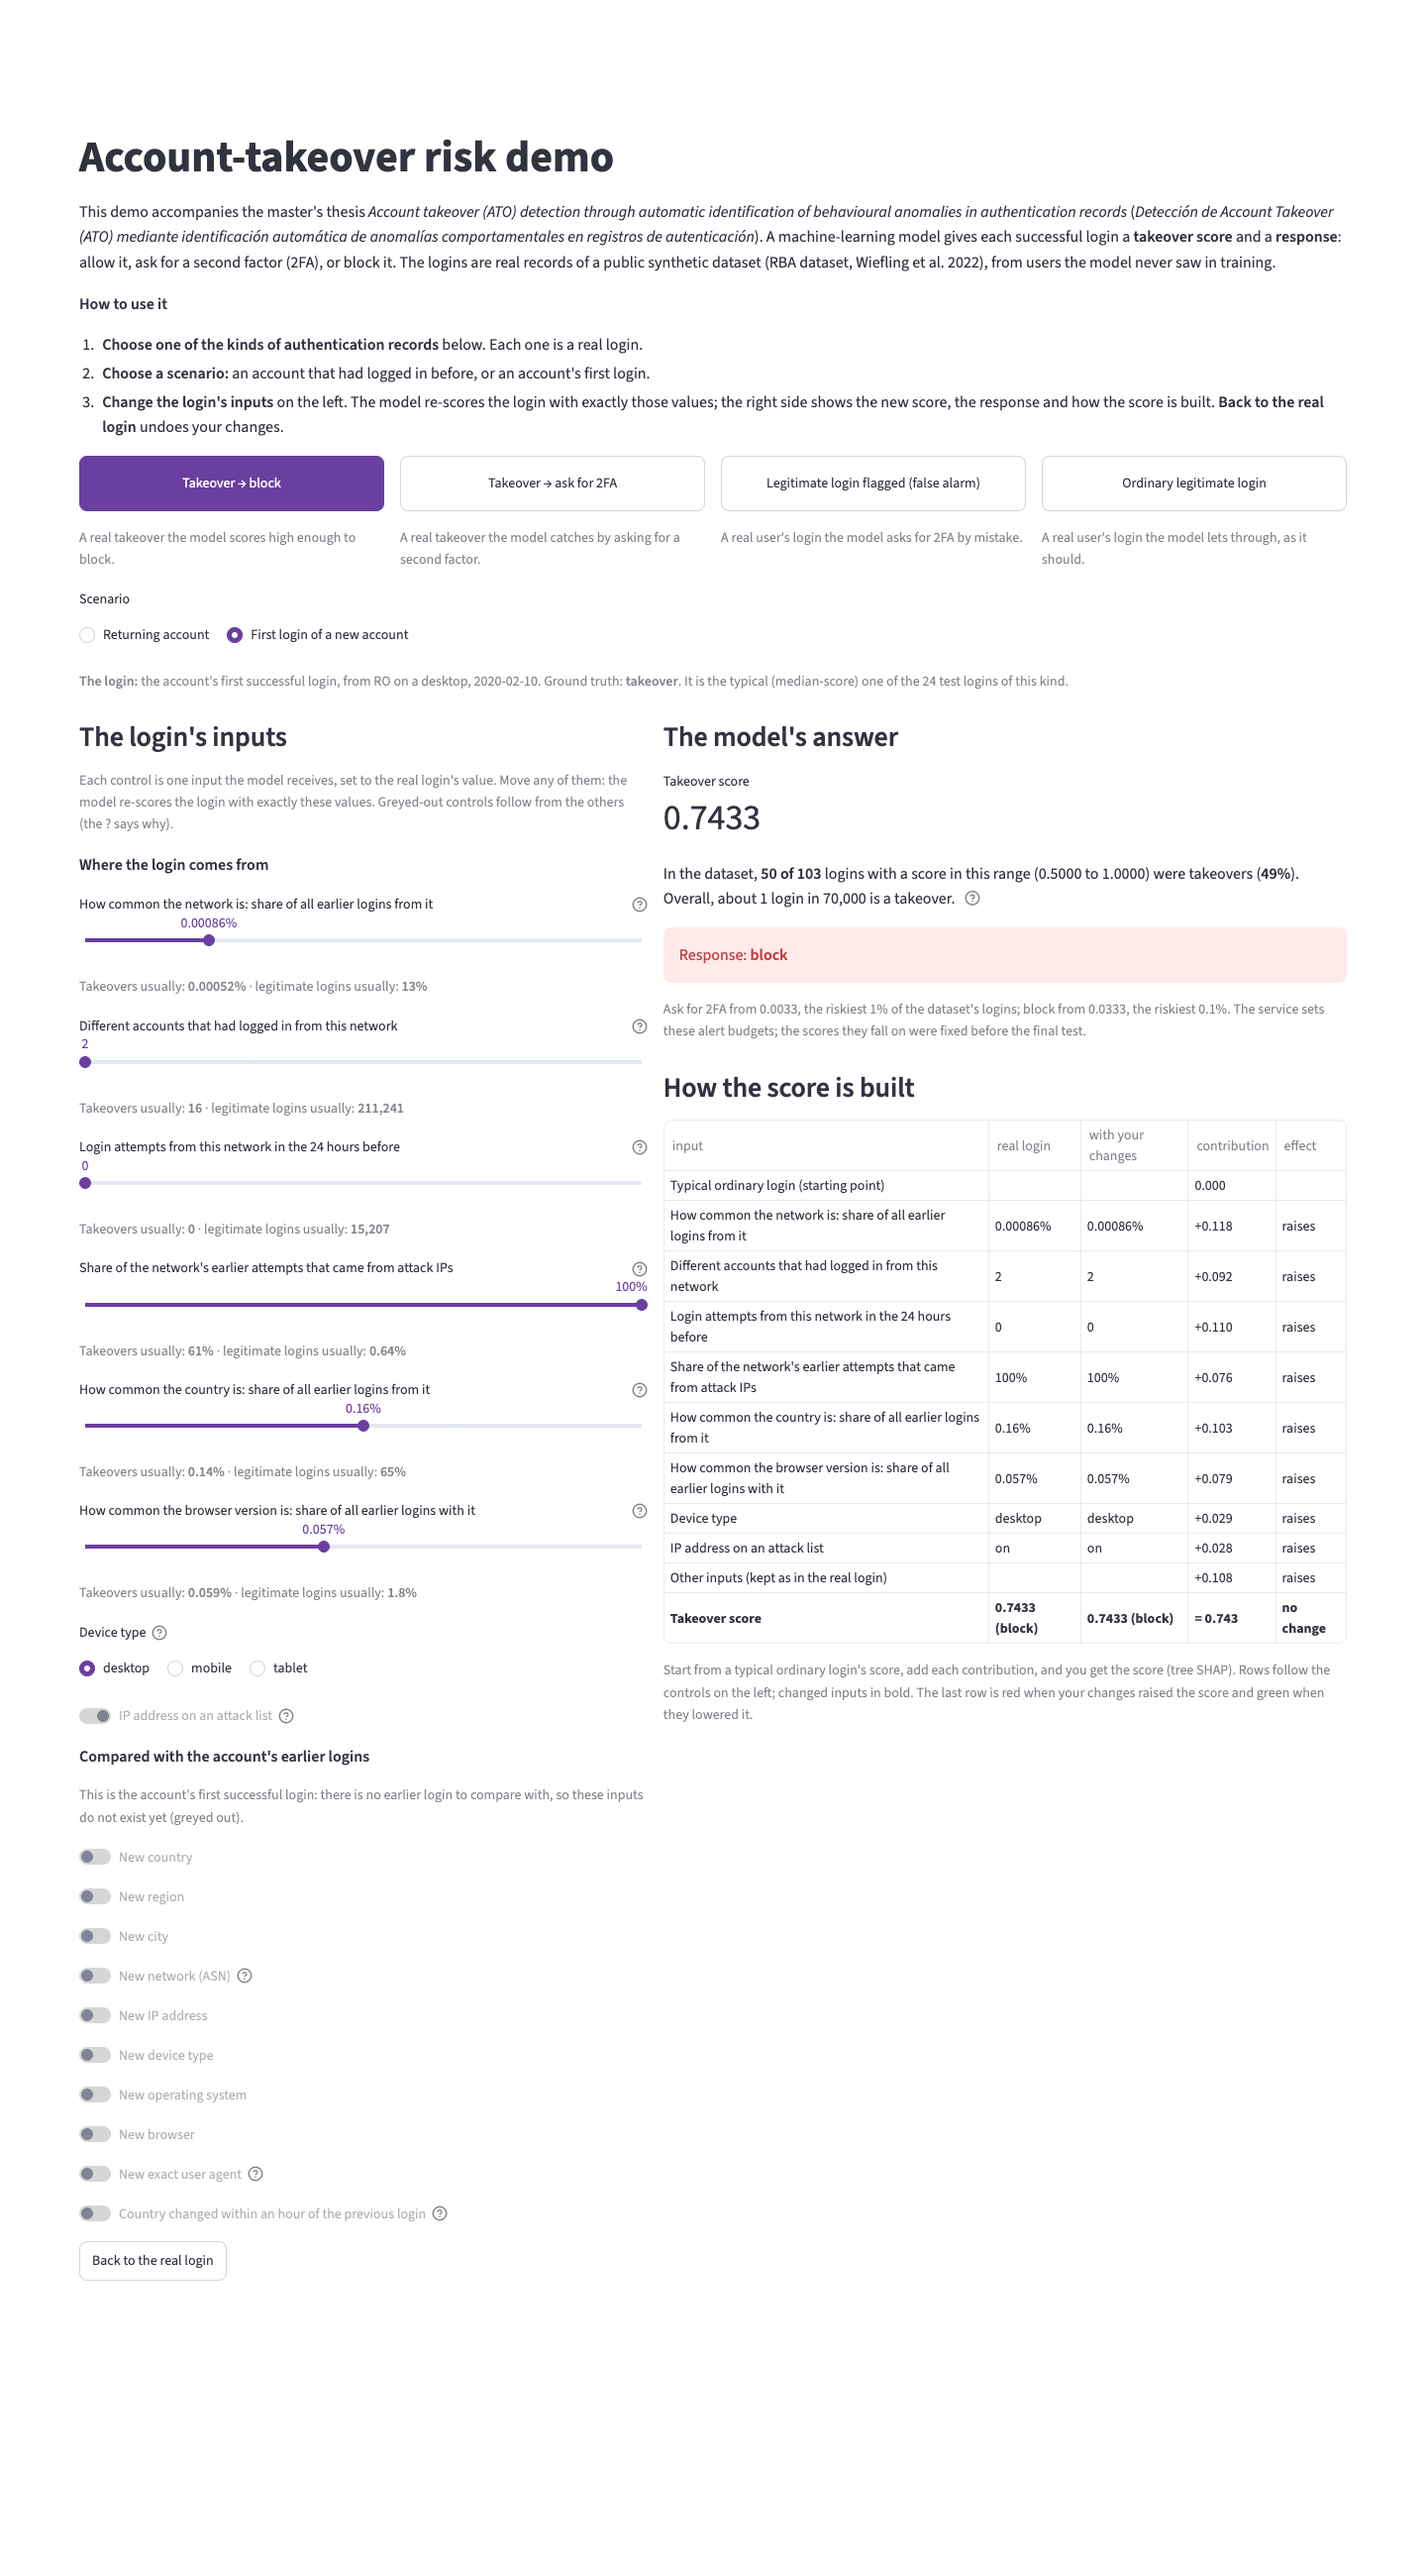
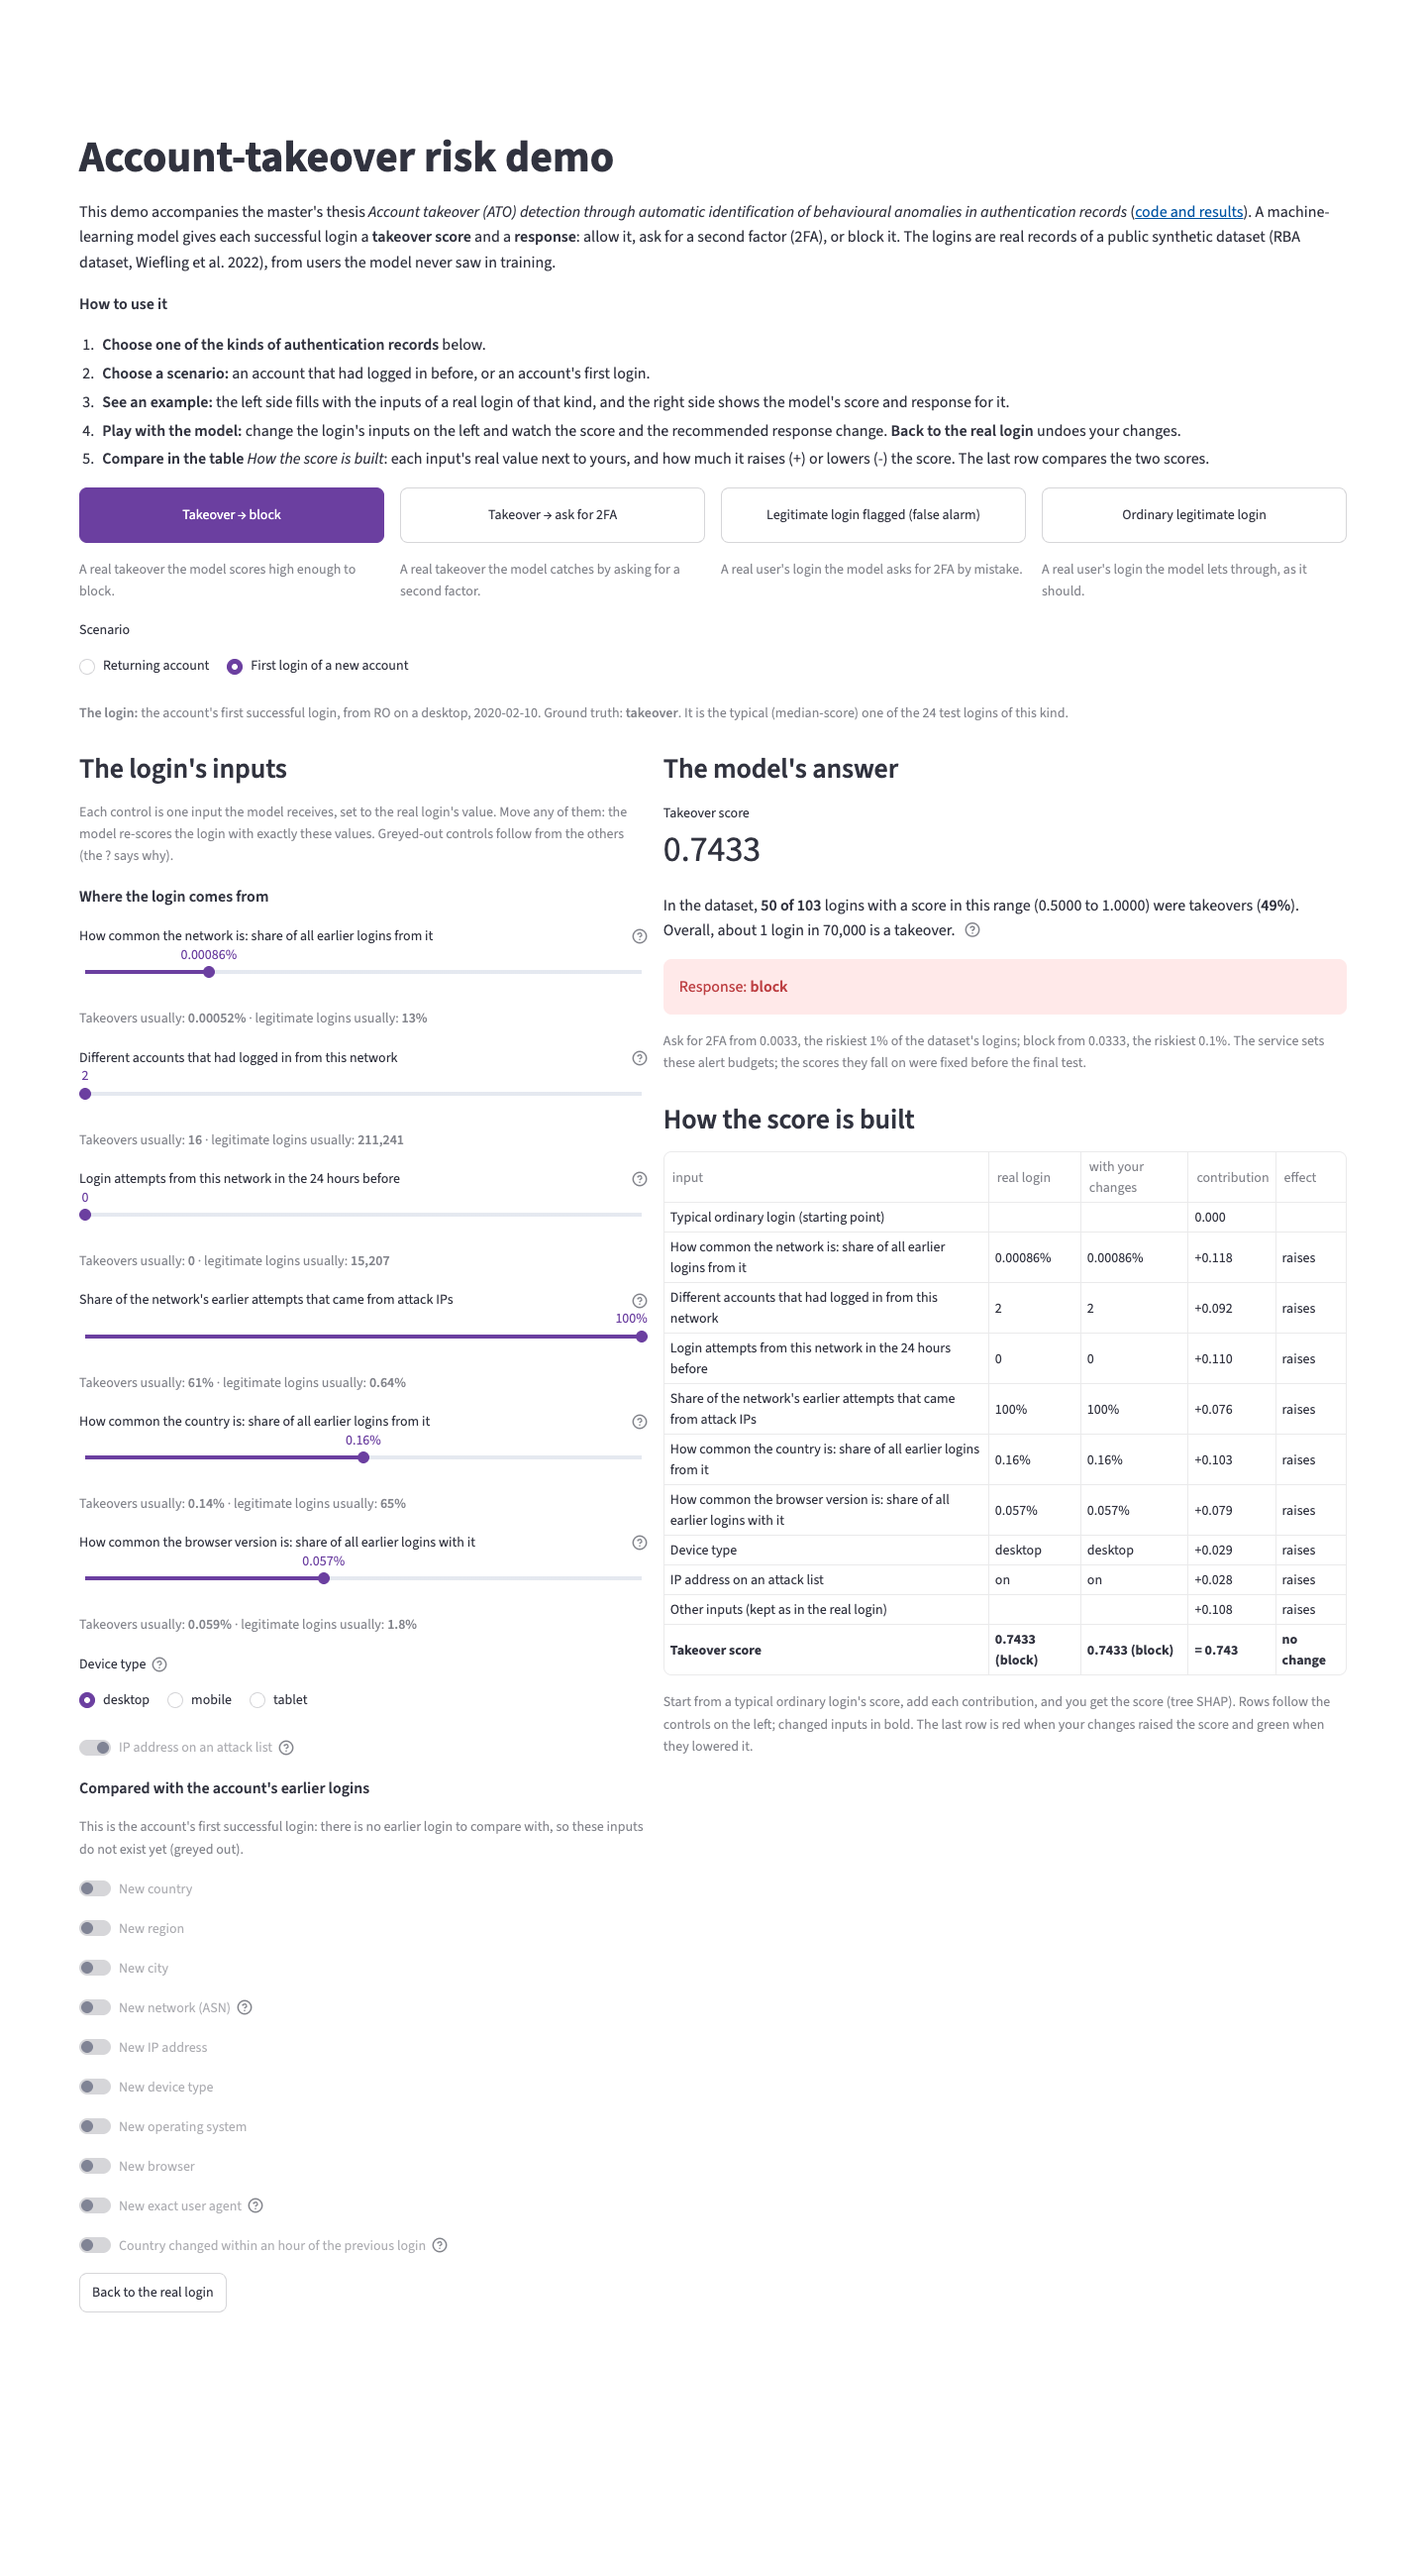
docs: refresh the demo screenshots with the new introduction

diff --git a/notebooks/7-deploy/README.md b/notebooks/7-deploy/README.md
@@ -90,7 +90,7 @@ no rule was broken, the table always added up to the score, and every reset rest
 
 | | |
 | --- | --- |
-| ![Takeover blocked](screenshots/01-takeover-block.png) | **Takeover blocked (returning account).** The introduction and the three steps at the top; three earlier logins; the network is rare (0.00012% of logins, 7 accounts), quiet in the previous 24 hours and has a 70% attack-IP history, from a rare country and browser. Under each slider, where takeovers and legitimate logins usually are; on the right, what a score of 0.59 meant in the dataset (50 of 103 logins were takeovers) and how the score is built. |
+| ![Takeover blocked](screenshots/01-takeover-block.png) | **Takeover blocked (returning account).** The introduction (with a link to this repository) and the five steps at the top; three earlier logins; the network is rare (0.00012% of logins, 7 accounts), quiet in the previous 24 hours and has a 70% attack-IP history, from a rare country and browser. Under each slider, where takeovers and legitimate logins usually are; on the right, what a score of 0.59 meant in the dataset (50 of 103 logins were takeovers) and how the score is built. |
 | ![Takeover on a first login](screenshots/02-first-login.png) | **Takeover on a new account's first login.** There is no earlier login to compare with, so the account-history inputs are greyed out; the score comes from where the login comes from. |
 | ![Attack-listed IP switched off](screenshots/03-attack-ip-off.png) | **The takeover asked for 2FA, its attack-listed IP switched off.** Only that input changes; its row is in bold and the last row turns green: 0.0300 to 0.0100, still ask for 2FA. |
 | ![Legitimate login flagged](screenshots/04-false-alarm.png) | **False alarm (returning account).** A legitimate login asked for 2FA: the score comes from a combination of smaller contributions. |
